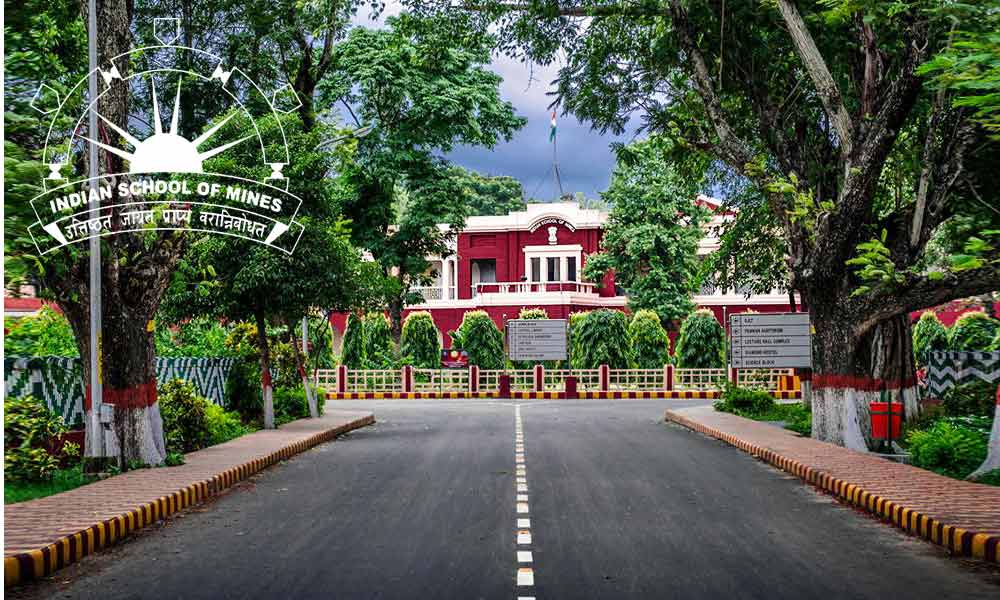
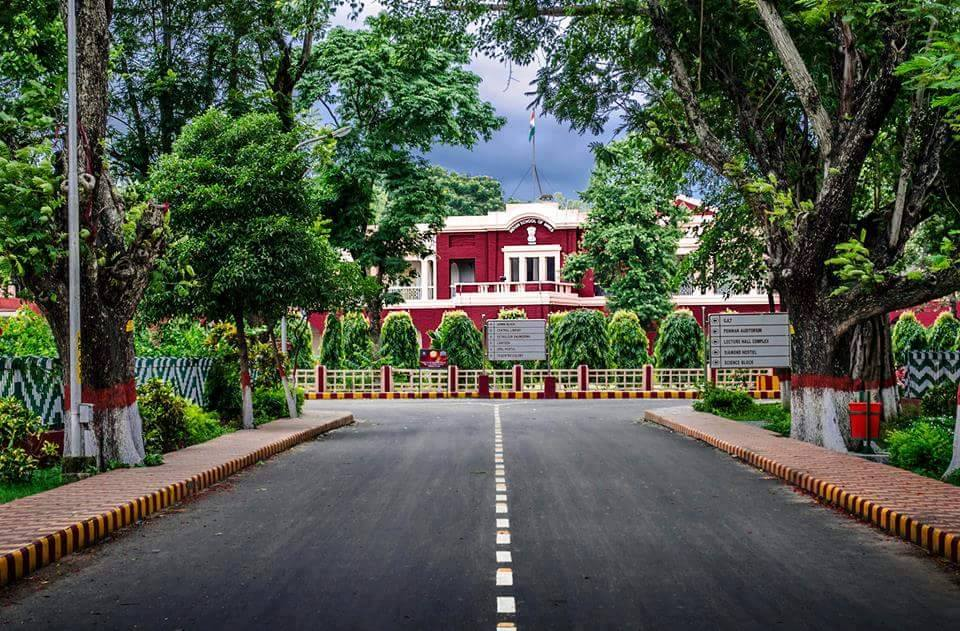
design improvement

diff --git a/index.html b/index.html
@@ -49,162 +49,10 @@
                         </li>
 
                     </ul>
-                    <div class="display-small">
-                        <ul class="navbar-nav mr-auto">
-
-                       
-
-                    <li class=" dropdown ">
-                            <a class="nav-link dropdown-toggle" data-toggle="dropdown" aria-expanded="false" >About</a>
-                            <div class="dropdown-menu" aria-labelledby="" style="padding:20px">
-                                    <ul>
-                                        <li><a href="#">Governing Body</a></li>
-                                        <li><a href="#">Chairman</a></li>
-                                        <li><a href="#">Director</a></li>
-                                        <li><a href="#">Academic Administration</a></li>
-                                    </ul>
-                                    <ul>
-                                        <li><a href="#">General Administration</a></li>
-                                        <li><a href="#">Hostel Administration</a></li>
-                                    </ul>
-                                
-                            </div>
-                        </li>
-        
-
-          <li class=" dropdown ">
-                            <a class="nav-link dropdown-toggle" data-toggle="dropdown" aria-expanded="false" >Admission</a>
-                            <div class="dropdown-menu" aria-labelledby="" style="padding:20px">
-                                    <ul>
-                                        <li><a href="#">Governing Body</a></li>
-                                        <li><a href="#">Chairman</a></li>
-                                        <li><a href="#">Director</a></li>
-                                        <li><a href="#">Academic Administration</a></li>
-                                    </ul>
-                                    <ul>
-                                        <li><a href="#">General Administration</a></li>
-                                        <li><a href="#">Hostel Administration</a></li>
-                                    </ul>
-                                
-                            </div>
-                        </li>
-        
-          <li class=" dropdown ">
-                            <a class="nav-link dropdown-toggle" data-toggle="dropdown" aria-expanded="false" >Administration</a>
-                            <div class="dropdown-menu" aria-labelledby="" style="padding:20px">
-                                    <ul>
-                                        <li><a href="#">Governing Body</a></li>
-                                        <li><a href="#">Chairman</a></li>
-                                        <li><a href="#">Director</a></li>
-                                        <li><a href="#">Academic Administration</a></li>
-                                    </ul>
-                                    <ul>
-                                        <li><a href="#">General Administration</a></li>
-                                        <li><a href="#">Hostel Administration</a></li>
-                                    </ul>
-                                
-                            </div>
-                        </li>
-        
-          <li class=" dropdown ">
-                            <a class="nav-link dropdown-toggle" data-toggle="dropdown" aria-expanded="false" >Academics</a>
-                            <div class="dropdown-menu" aria-labelledby="" style="padding:20px">
-                                    <ul>
-                                        <li><a href="#">Governing Body</a></li>
-                                        <li><a href="#">Chairman</a></li>
-                                        <li><a href="#">Director</a></li>
-                                        <li><a href="#">Academic Administration</a></li>
-                                    </ul>
-                                    <ul>
-                                        <li><a href="#">General Administration</a></li>
-                                        <li><a href="#">Hostel Administration</a></li>
-                                    </ul>
-                                
-                            </div>
-                        </li>
-        
-          <li class=" dropdown ">
-                            <a class="nav-link dropdown-toggle" data-toggle="dropdown" aria-expanded="false" >Research</a>
-                            <div class="dropdown-menu" aria-labelledby="" style="padding:20px">
-                                    <ul>
-                                        <li><a href="#">Governing Body</a></li>
-                                        <li><a href="#">Chairman</a></li>
-                                        <li><a href="#">Director</a></li>
-                                        <li><a href="#">Academic Administration</a></li>
-                                    </ul>
-                                    <ul>
-                                        <li><a href="#">General Administration</a></li>
-                                        <li><a href="#">Hostel Administration</a></li>
-                                    </ul>
-                                
-                            </div>
-                        </li>
-        
-          <li class=" dropdown ">
-                            <a class="nav-link dropdown-toggle" data-toggle="dropdown" aria-expanded="false" >Camous life</a>
-                            <div class="dropdown-menu" aria-labelledby="" style="padding:20px">
-                                    <ul>
-                                        <li><a href="#">Governing Body</a></li>
-                                        <li><a href="#">Chairman</a></li>
-                                        <li><a href="#">Director</a></li>
-                                        <li><a href="#">Academic Administration</a></li>
-                                    </ul>
-                                    <ul>
-                                        <li><a href="#">General Administration</a></li>
-                                        <li><a href="#">Hostel Administration</a></li>
-                                    </ul>
-                                
-                            </div>
-                        </li>
-        
-
-
-
-
-
-
-
-
-
-                    </ul>
-
-                    </div>
-                <!-- <form class="form-inline my-2 my-lg-0">
-                    <input class="form-control mr-sm-2" type="text" placeholder="Search">
-                    <button class="btn btn-outline-success my-2 my-sm-0" type="submit">Search</button>
-                </form> -->
                 </div>
             </div>                
         </nav>
-        <header>
-
-
-
-
-
-
-
-
-
-
-
-
-
-
-
-
-
-
-
-
-
-
-
-
-
-
-
-            <!-- secondary navigation !-->
+        <header> <!-- secondary navigation !-->
             <nav class="navbar yamm navbar-expand-md navbar-dark secondary-navbar" style="height:100px" role="navigation">
 
                 <div class="container">
@@ -215,19 +63,7 @@
                     <strong class="font-weight-light" style="font-size:1.8em; color:#ffffff">IIT (ISM) Dhanbad</strong>
                     </a>
                     <div class="collapse navbar-collapse" id="navbarNav1">
-                        
-
-
-
-
-
-
-
-
-
-
-                        <ul class="navbar-nav ml-auto navbar-right ">
-        
+                        <ul class="navbar-nav ml-auto navbar-right ">        
                         <!-- About section nav -->
                         <li class="nav-item dropdown btn-group yamm-fw">
                             <a class="nav-link dropdown-toggle" id="dropdownMenu1" data-toggle="dropdown" aria-haspopup="true" aria-expanded="false" style="font-size:1.2em">About</a>
@@ -406,15 +242,6 @@
                             </div>
                         </li>
                         </ul>
-
-
-
-
-
-
-
-
-
 
 
                     </div>

diff --git a/styles/index.css b/styles/index.css
@@ -3,7 +3,7 @@ header {
     height:100vh;
     min-height:300px;
     background-size:cover;
-    background-image:url('../assets/main-building-home.jpg');
+    background-image:url('../assets/main-building.jpg');
 background-position: center center;
     
   }
@@ -21,7 +21,6 @@ header::before{
 }
 
 .secondary-navbar{
-    margin-top: 50px;
     cursor: pointer;  
     text-anchor: 0,0;
 
